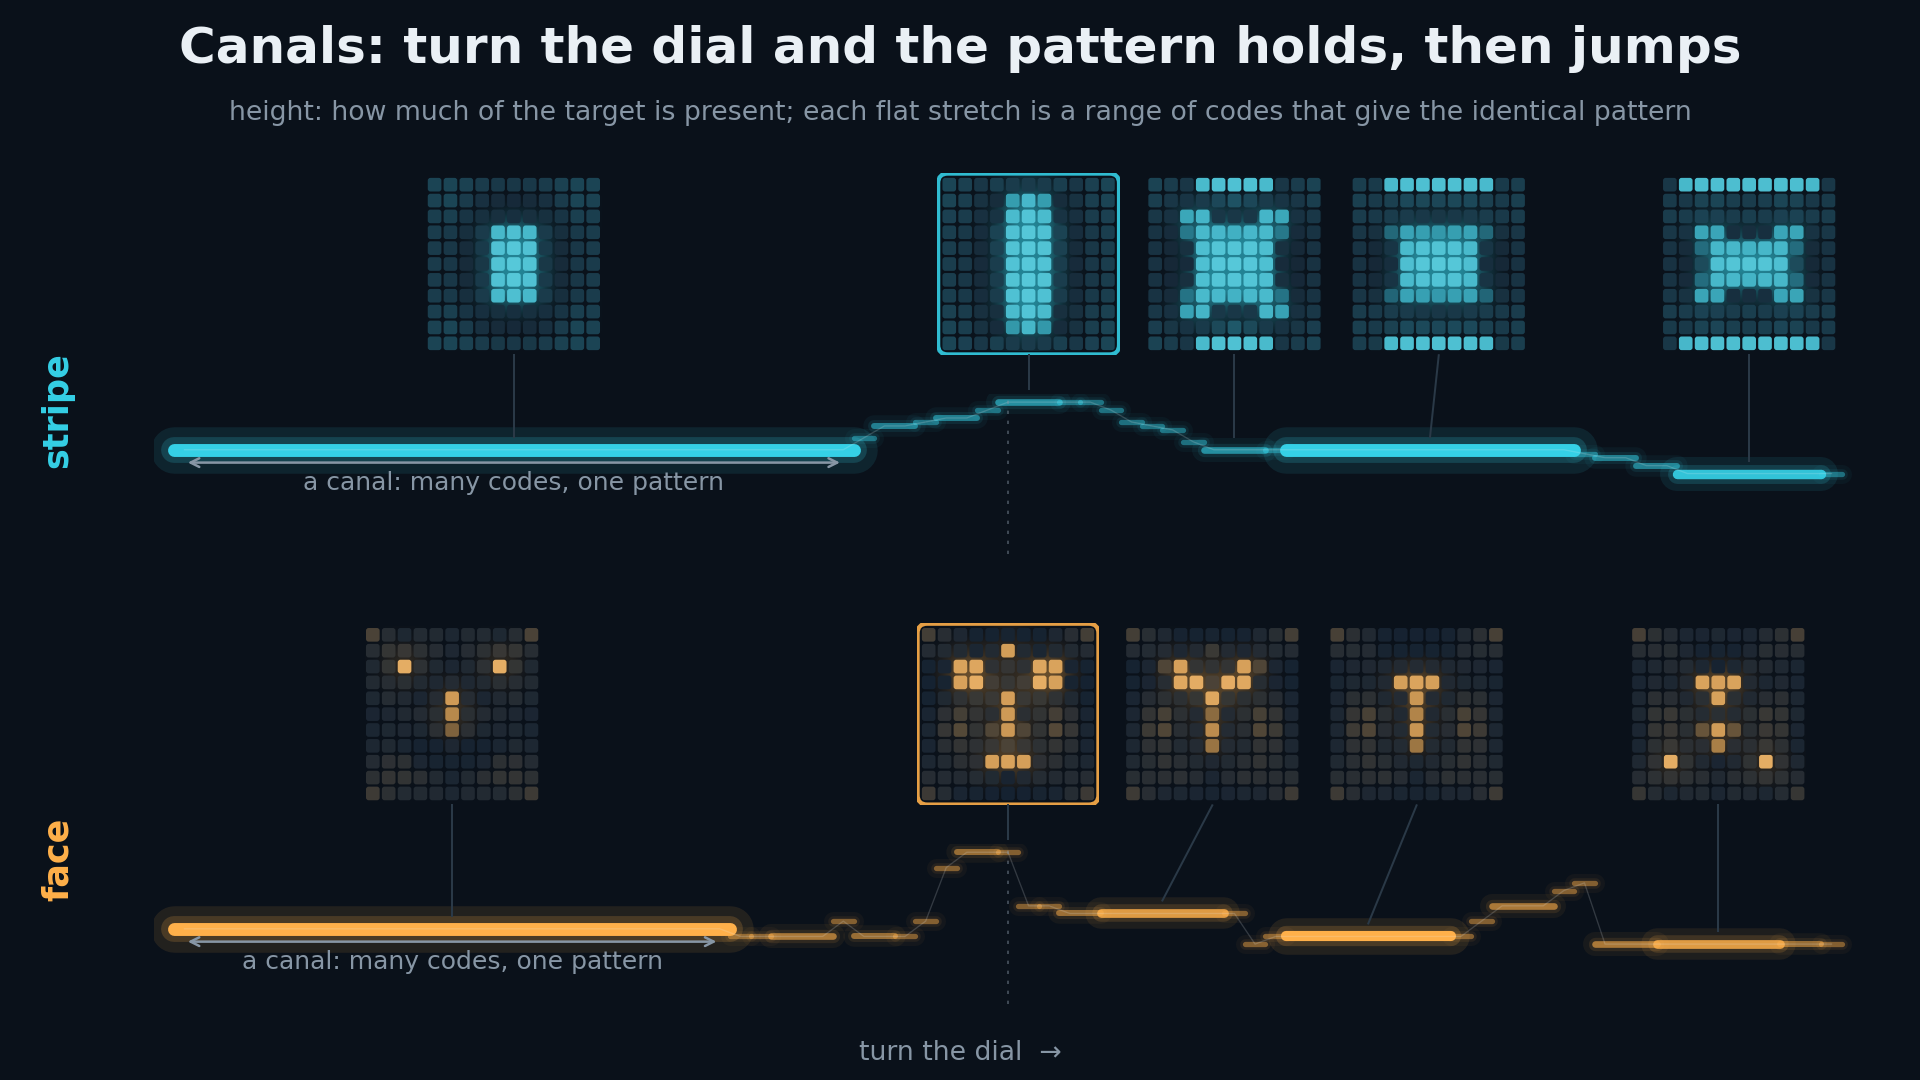
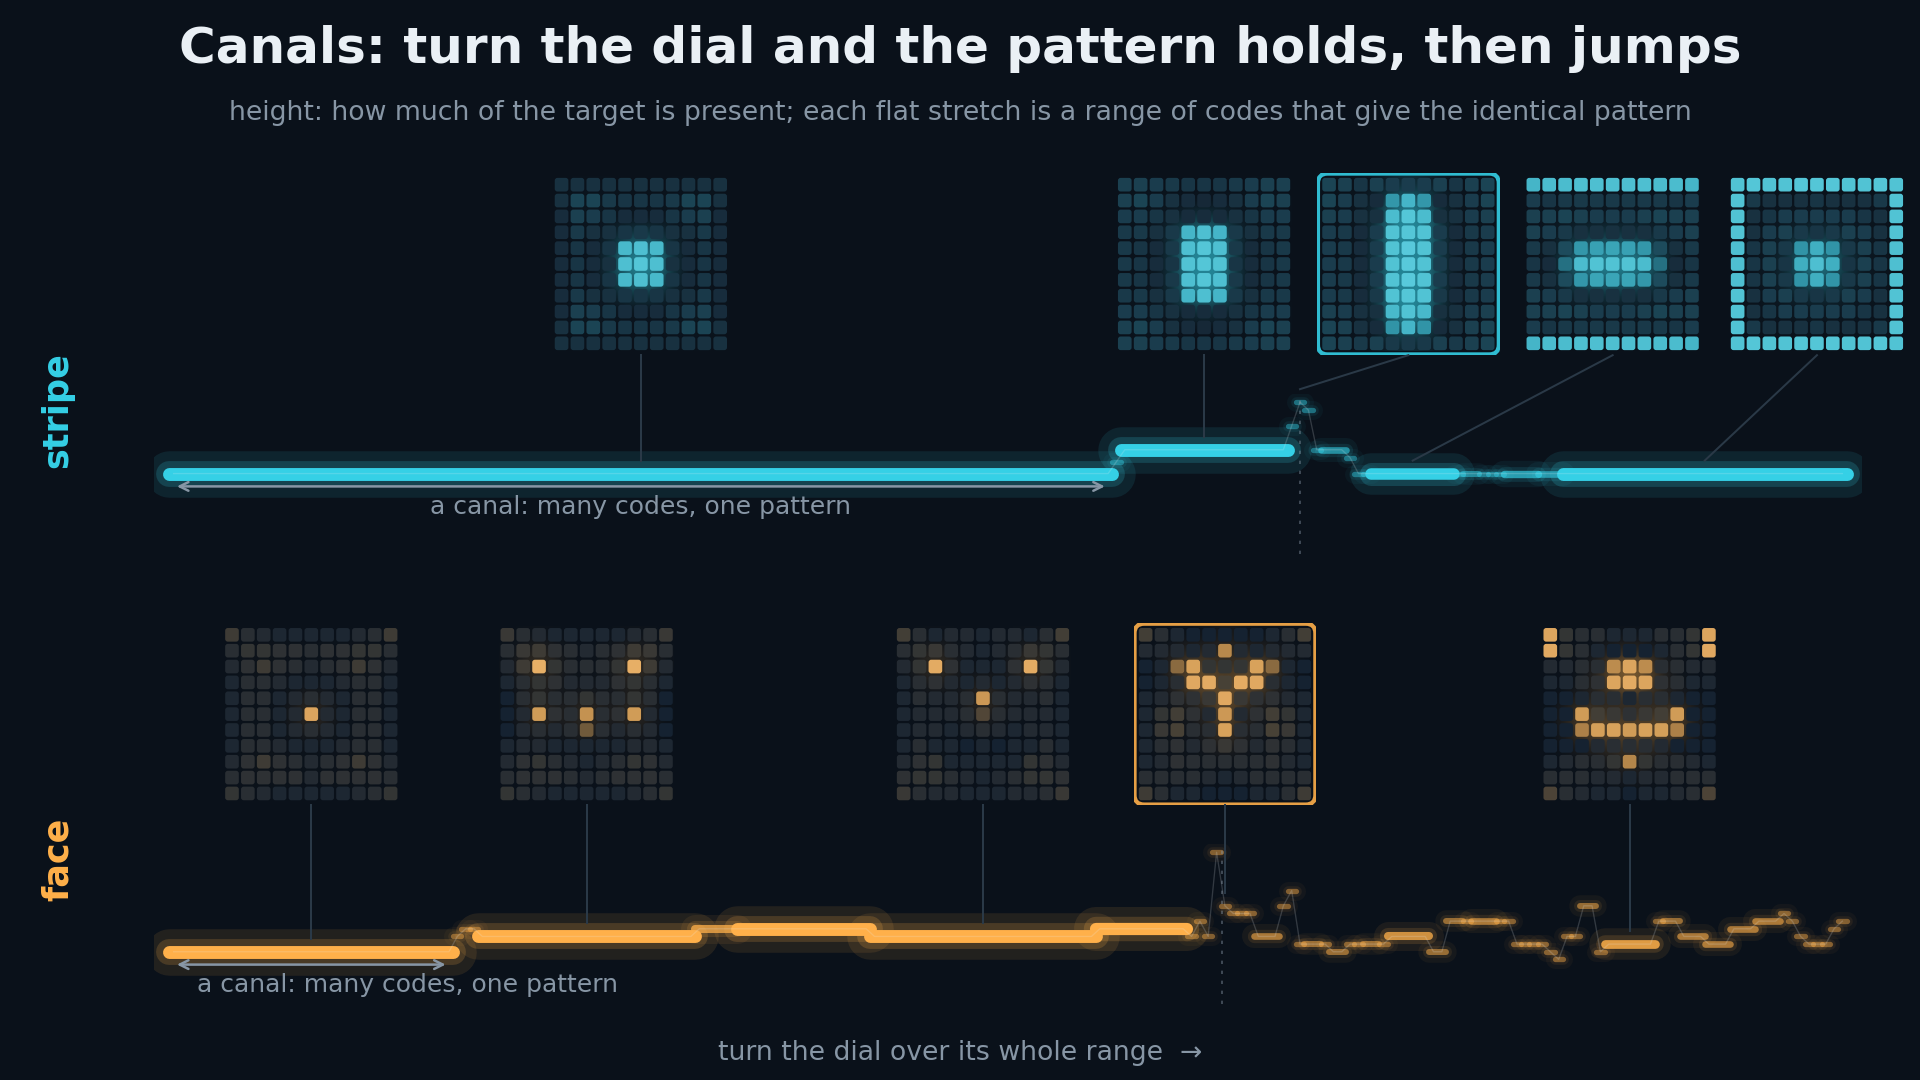
Show the canals over the dial's whole range and pick distinct thumbnails

diff --git a/buildCanalizationTalkEssence11x11.py b/buildCanalizationTalkEssence11x11.py
@@ -38,6 +38,8 @@ parser.add_argument('--clusterScoresPath', type=str, default='data/canalizationT
 parser.add_argument('--distancePath', type=str, default='data/canalizationTalkFamilyDistance1888Hold301.json', help='from analyzeCanalizationTalkFamilyDistance11x11.py')
 parser.add_argument('--distanceScoresPath', type=str, default='data/canalizationTalkFamilyDistanceScores1888Hold301.npz')
 parser.add_argument('--netStopPatternsPath', type=str, default='data/canalizationTalkNetStopPatterns1888Hold301.npz', help='cache: the tissue at the readout for every simulated knob setting of the relay-net movie')
+parser.add_argument('--canalSweep', type=str, default='full', choices=('full', 'zoom'),
+                    help='figure 5: the dial (order 0) over its whole allowed range, 201 settings (the pattern-slider files), or only plus or minus 0.08 around the trained code in steps of 0.002 (the replay cache)')
 parser.add_argument('--ffmpeg', type=str, default='ffmpeg')
 parser.add_argument('--framesDirectory', type=str, default='canalizationTalkEssenceFrames')
 parser.add_argument('--overwrite', action='store_true')
@@ -435,14 +437,30 @@ if 'faceNoSinglePart' in parts:
     savePicture(figure, '4_faceNoSinglePart.png')
 
 # ================================================================================================================== 5 canals of the dial
+CANAL_SWEEP_PATHS = {'stripe': 'data/boundaryHarmonicRingCodePatterns1888Hold301StripesInteriorMinus60Minus5.json', 'face': 'data/boundaryHarmonicRingCodePatterns1888Hold301FaceMinus60Minus5.json'}
+
+
+def canalSweep(key):
+    """(position of every setting along the dial, 0 to 1; the tissue at the target's readout at every setting; the trained code's position). 'full': order 0 over its whole allowed range in 201
+    settings, from the pattern-slider files (read at the target's own readout, 504 and 2173); 'zoom': plus or minus 0.08 around the trained code in steps of 0.002, from the replay cache."""
+    if args.canalSweep == 'zoom':
+        offsets = np.round(np.arange(-0.08, 0.0801, 0.002), 6)
+        return (offsets - offsets[0]) / (offsets[-1] - offsets[0]), cache[f'slide_{key}_order0_step0.002'], 0.5
+    families = json.load(open(CANAL_SWEEP_PATHS[key]))
+    sweep = families['families']['wideSlider']
+    rows = sorted((coefficients[0], vmem) for coefficients, order, vmem in zip(sweep['coefficients'], sweep['order'], sweep['vmemAtRead']) if order == 0)
+    dial = np.array([row[0] for row in rows])
+    return (dial - dial[0]) / (dial[-1] - dial[0]), np.array([row[1] for row in rows], float), (families['trainedCoefficients'][0] - dial[0]) / (dial[-1] - dial[0])
+
+
 if 'canals' in parts:
-    offsets = np.round(np.arange(-0.08, 0.0801, 0.002), 6)
     figure = newFigure()
     outer = figure.add_gridspec(2, 1, left=0.08, right=0.97, top=0.84, bottom=0.07, hspace=0.18)
     side = 0.095                                                                      # thumbnail width as a share of the figure; height chosen to make it square
     for row, key in enumerate(('stripe', 'face')):
         target = TARGETS[key]
-        patterns = cache[f'slide_{key}_order0_step0.002']
+        positions, patterns, trainedPosition = canalSweep(key)
+        halfStep = (positions[1] - positions[0]) / 2
         dark = patterns[:, INTERIOR] < THRESHOLD
         share = np.array([darkCounts(p, target['cells'])[0] for p in patterns]) / len(target['cells'])
         runs, begin = [], 0                                                               # stretches of identical patterns along the dial
@@ -454,26 +472,33 @@ if 'canals' in parts:
         holder = figure.add_subplot(inner[0])
         holder.axis('off')
         axis = figure.add_subplot(inner[1])
-        axis.set_xlim(-0.083, 0.083)
+        axisLow, axisHigh = -0.012, 1.012
+        axis.set_xlim(axisLow, axisHigh)
         axis.set_ylim(-0.42, 1.08)
         axis.axis('off')
         for first, last in runs:                                                          # the staircase: a bright glowing step for every canal
-            x0, x1 = offsets[first] - 0.001, offsets[last] + 0.001
+            x0, x1 = positions[first] - halfStep, positions[last] + halfStep
             length = last - first + 1
             strength = 0.35 + 0.65 * min(length, 8) / 8.0
             for width, alpha in ((18, 0.10), (10, 0.18), (5, 1.0)):
                 axis.plot([x0, x1], [share[first]] * 2, color=GLOW_HEX[key], lw=width * (0.55 + min(length, 12) / 12.0), alpha=alpha * strength, solid_capstyle='round')
-        axis.plot(offsets, share, color=INK_LIGHT, lw=0.8, alpha=0.18)
-        axis.axvline(0.0, color=MUTED, lw=1.0, ls=(0, (2, 4)), alpha=0.5)
-        trainedRun = [r for r in runs if r[0] <= int(np.argmin(np.abs(offsets))) <= r[1]][0]
-        others = sorted([r for r in runs if r != trainedRun], key=lambda r: -(r[1] - r[0]))[:4]
-        chosen = sorted([trainedRun] + others, key=lambda r: r[0])
+        axis.plot(positions, share, color=INK_LIGHT, lw=0.8, alpha=0.18)
+        axis.axvline(trainedPosition, color=MUTED, lw=1.0, ls=(0, (2, 4)), alpha=0.5)
+        trainedRun = [r for r in runs if r[0] <= int(np.argmin(np.abs(positions - trainedPosition))) <= r[1]][0]
+        appearance = patterns < THRESHOLD                                                 # what a thumbnail shows: the dark cells of the whole tissue, boundary included
+        chosen = [trainedRun]                                                              # the trained canal, then the longest canals that look different from those already shown (at least 4 cells apart)
+        for run in sorted([r for r in runs if r != trainedRun], key=lambda r: -(r[1] - r[0])):
+            if len(chosen) == 5:
+                break
+            if all(int((appearance[run[0]] != appearance[other[0]]).sum()) >= 4 for other in chosen):
+                chosen.append(run)
+        chosen = sorted(chosen, key=lambda r: r[0])
         holderBox, axisBox = holder.get_position(), axis.get_position()
         placed = []
         for first, last in chosen:
             middle = (first + last) // 2
-            centre = (offsets[first] + offsets[last]) / 2
-            xCentre = axisBox.x0 + (centre + 0.083) / 0.166 * axisBox.width
+            centre = (positions[first] + positions[last]) / 2
+            xCentre = axisBox.x0 + (centre - axisLow) / (axisHigh - axisLow) * axisBox.width
             for taken in placed:                                                          # keep neighbouring thumbnails apart
                 if abs(xCentre - taken) < side * 1.12:
                     xCentre = taken + side * 1.12 * (1 if xCentre >= taken else -1)
@@ -484,17 +509,17 @@ if 'canals' in parts:
             glyph.update(patterns[middle], glowStrength=0.6)
             if (first, last) == trainedRun:
                 small.add_patch(FancyBboxPatch((-0.7, -0.7), 11.4, 11.4, boxstyle='round,pad=0,rounding_size=0.6', fc='none', ec=GLOW_HEX[key], lw=2.5, alpha=0.9))
-            xPlateau = axisBox.x0 + (centre + 0.083) / 0.166 * axisBox.width
+            xPlateau = axisBox.x0 + (centre - axisLow) / (axisHigh - axisLow) * axisBox.width
             yPlateau = axisBox.y0 + (share[middle] + 0.42) / 1.5 * axisBox.height
             figure.add_artist(plt.Line2D([xCentre, xPlateau], [holderBox.y0 + holderBox.height - height, yPlateau + 0.012], transform=figure.transFigure, color=FAINT, lw=1.2))
         longest = max(runs, key=lambda r: r[1] - r[0])
-        axis.annotate('', xy=(offsets[longest[0]], share[longest[0]] - 0.12), xytext=(offsets[longest[1]], share[longest[1]] - 0.12), arrowprops=dict(arrowstyle='<->', color=MUTED, lw=1.5))
-        axis.text((offsets[longest[0]] + offsets[longest[1]]) / 2, share[longest[0]] - 0.20, 'a canal: many codes, one pattern', ha='center', va='top', fontsize=15, color=MUTED)
+        axis.annotate('', xy=(positions[longest[0]], share[longest[0]] - 0.12), xytext=(positions[longest[1]], share[longest[0]] - 0.12), arrowprops=dict(arrowstyle='<->', color=MUTED, lw=1.5))
+        axis.text(max((positions[longest[0]] + positions[longest[1]]) / 2, 0.14), share[longest[0]] - 0.20, 'a canal: many codes, one pattern', ha='center', va='top', fontsize=15, color=MUTED)
         figure.text(0.03, axisBox.y0 + axisBox.height * 0.9, LABEL[key], ha='center', va='center', fontsize=21, color=GLOW_HEX[key], fontweight='bold', rotation=90)
     figure.text(0.5, 0.955, 'Canals: turn the dial and the pattern holds, then jumps', ha='center', va='center', fontsize=30, fontweight='bold')
     figure.text(0.5, 0.895, 'height: how much of the target is present; each flat stretch is a range of codes that give the identical pattern', ha='center', va='center', fontsize=16, color=MUTED)
-    figure.text(0.5, 0.025, 'turn the dial  \u2192', ha='center', va='center', fontsize=16, color=MUTED)
-    savePicture(figure, '5_canalsOfTheDial.png')
+    figure.text(0.5, 0.025, 'turn the dial over its whole range  \u2192' if args.canalSweep == 'full' else 'turn the dial a little either side of the trained setting  \u2192', ha='center', va='center', fontsize=16, color=MUTED)
+    savePicture(figure, '5_canalsOfTheDial.png' if args.canalSweep == 'full' else '5_canalsOfTheDial_zoom.png')
 
 # the regions of the tissue as nodes of the relay net, in lattice coordinates (x across, y down), and each node's mirror twin
 NET_POSITIONS = {

diff --git a/presentation/TALK_NOTES.md b/presentation/TALK_NOTES.md
@@ -133,7 +133,7 @@ The stripe has no write or latch phase in the relay's sense: it is written in th
 
 * **The code is lower-dimensional than the pattern.** 81 interior cells (45 independent under the left–right mirror) are steered by 4 numbers for the face (orders 0–3; more add nothing) and 2 effective numbers for the stripe (a dial and an oval; the tilt is 0.001), a compression of 20–40×.
   Behind the code sit 4 region levels and 2 switches: the stripe's two ends, the face's two modules.
-* **Many codes, one pattern** (Waddington's sense; figure 5). Turn the dial and the pattern holds, then jumps. Along 201 dial settings the stripe visits 18 distinct patterns (11 settings each), the face 57 (3.5 each). Over random space-filling codes the stripe lands on an effective
+* **Many codes, one pattern** (Waddington's sense; figure 5). Turn the dial and the pattern holds, then jumps. Along 201 dial settings the stripe visits 18 distinct patterns (11 settings each), the face 57 (3.5 each). In figure 5's terms: the stripe's dial has 20 canals (four of at least 10 settings cover 88% of the dial; the longest is 113 settings, 56%), the face's 60 (five of at least 10 cover 57%; 39 are a single setting). The trained setting is a one-setting canal for both. An earlier version of figure 5 swept only plus or minus 0.08 around the trained code in steps of 0.002 and looked almost equal for the two (22 against 28 canals, 3.7 against 2.9 settings per canal, longest canal 33 against 27 settings, both at the weak end of the dial), because that window shows only the trained neighbourhood, where both are thin; it is available as `--canalSweep zoom` (written as `5_canalsOfTheDial_zoom.png`). Over random space-filling codes the stripe lands on an effective
   22 patterns from 160 codes (7 codes each, spread over about 7 of the 81 dimensions), the face on an effective 167 from 280 (1.7 each, about 16 dimensions) (**new**).
 * **The qualification.** The compression holds for the code that writes the pattern directly. The stripe's two-wave code needs boundary cells driven past the bistable edge (ceiling 2.0; the face stayed at 1.3). Under the face's ceiling the stripe needs all 11 independent boundary values:
   no compression. And canalized is not robust: the exact target is a thin slice (dial window 0.008 for the stripe, under 0.004 for the face; 1% noise on the 40 values keeps the stripe at overlap ≥ 0.9 in 23 of 100 draws, the face in 0).
@@ -194,7 +194,7 @@ In movie A each panel stops at its target's moment (stripe 504, face 2173) becau
 | `2_twoPhases.png` | seven moments of each target, bracketed by guidance and self-organization | simple is written while held, complex long after |
 | `3_stripeTwoSwitches.png` | top end only, bottom end only, both | the simple organizer is readable |
 | `movies/B_turningTheKnobs.mp4` (9 s) | each knob turned: three for the stripe, four for the face | few knobs, many cells; tidy versus fragmenting |
-| `5_canalsOfTheDial.png` | long flat steps = canals, with thumbnails | canalization as compression |
+| `5_canalsOfTheDial.png` | the dial (order 0) turned over its whole allowed range in 201 settings, read at each target's own readout (504, 2173): height is how much of the target is present, each flat stretch is a canal (a run of settings giving the identical pattern, longer and brighter the more codes share it), with thumbnails of the trained setting (outlined; a canal of one setting in both targets) and of the longest canals that look different from those already shown (at least four dark cells apart, boundary included, so two near-identical patterns are not both drawn). The stripe's dial is four long canals, the face's is long canals at the weak end and a fragmented rest | canalization as compression |
 | `movies/C_theImprintLingers.mp4` (16 s) | both tissues run on to 20,000 iterations; a frame lights up whenever the tissue shows a pattern from its code's family, labelled one, two, three stripes or a deformed face | the presented result |
 | `7_theImprintLingers.png` | for each code: family visits (the code, nearby codes, other codes of the same symmetry), how far nearby codes have drifted, and a gallery of family patterns visited | the presented result, as a still |
 | `4_faceNoSinglePart.png` | upper wall alone, lower wall alone, whole boundary | the complex organizer is a distributed key (short) |
